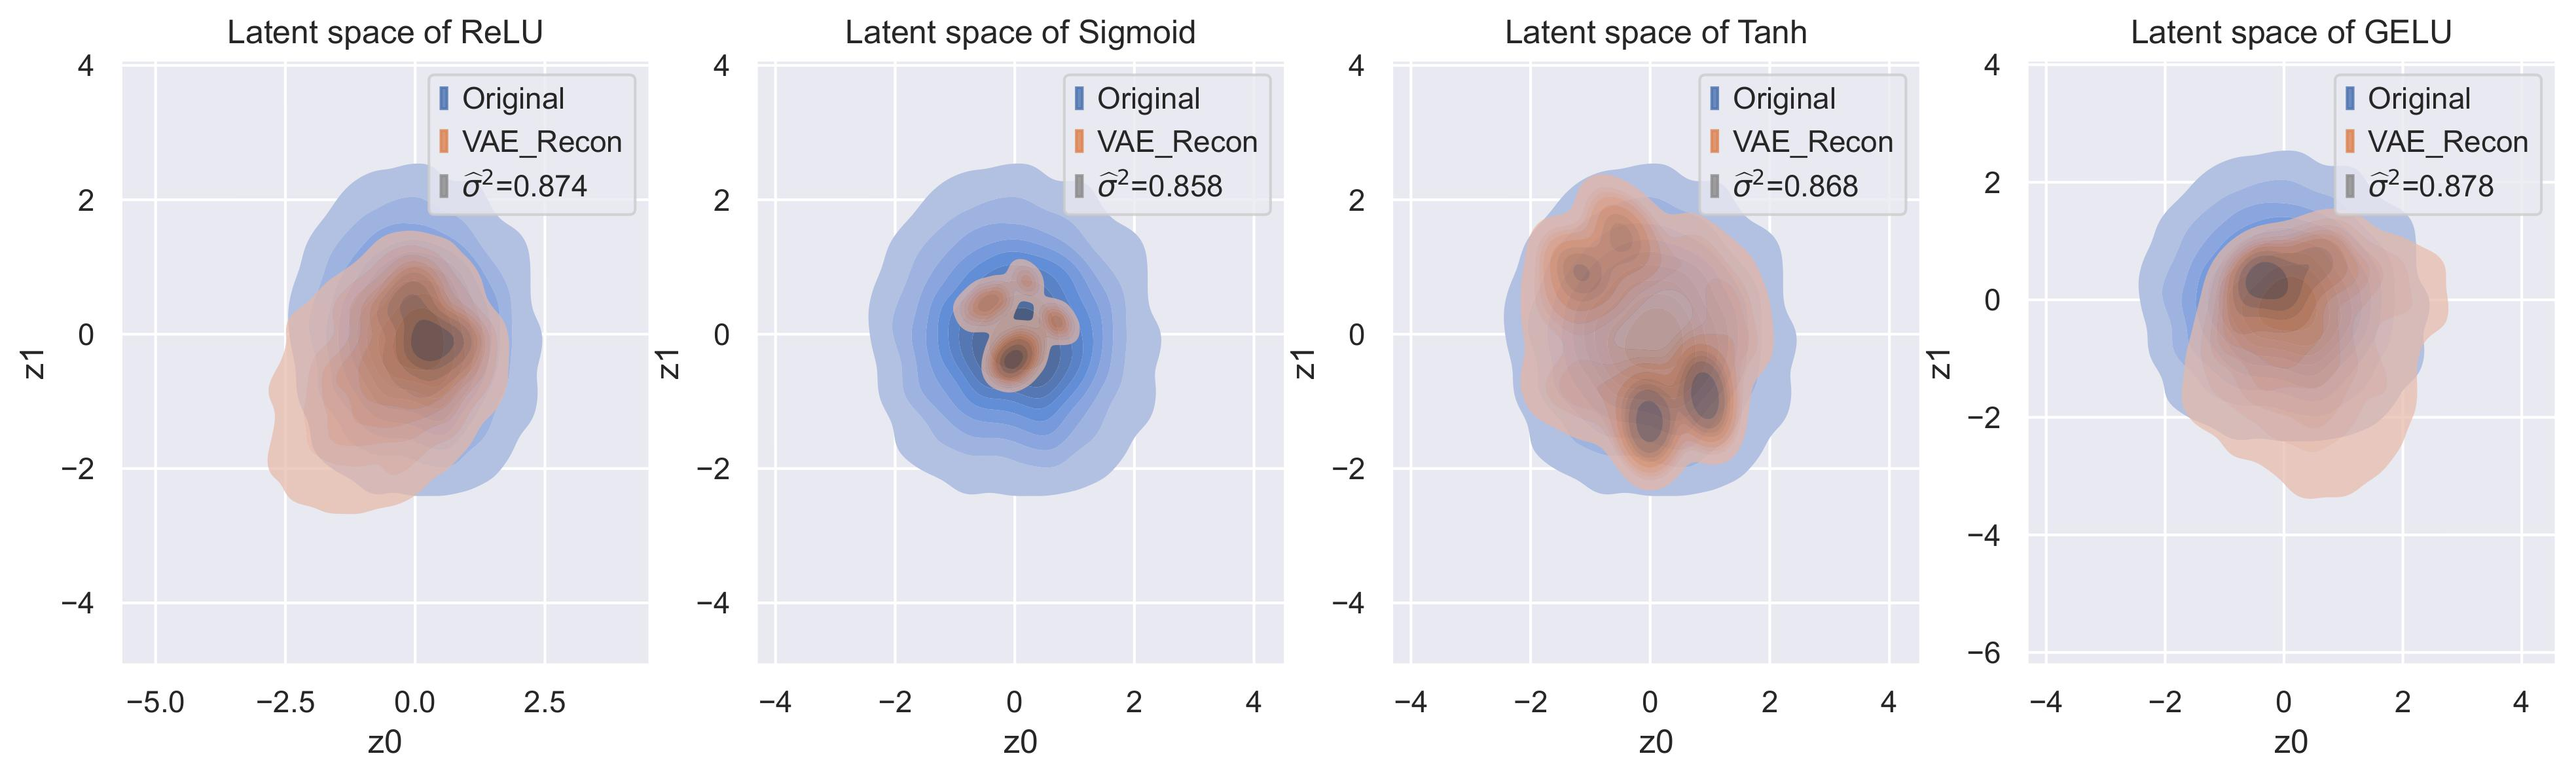
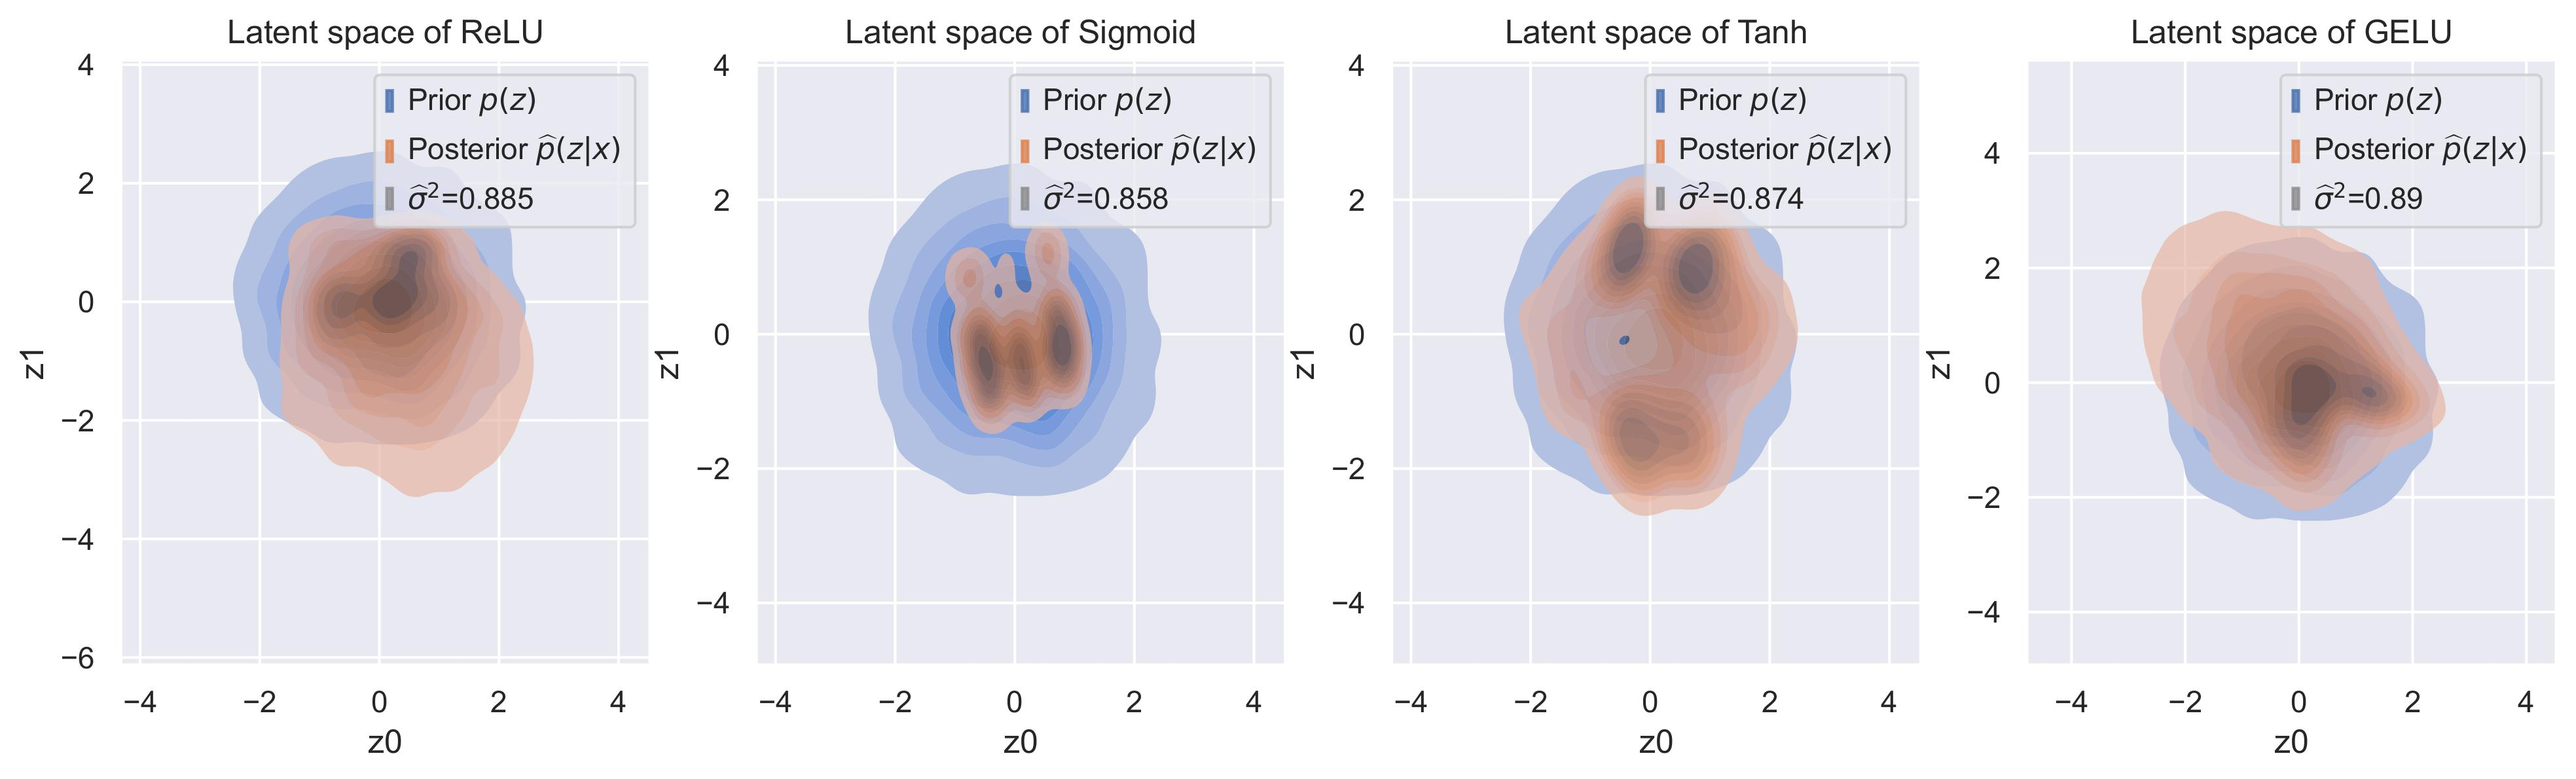
update

diff --git a/README.md b/README.md
@@ -49,15 +49,21 @@ valid_loss = valid_vae(valid_loader, model, eval_mode=True)
 recon_df = simu_vae(m, n, model, simu_loader)
 ```
 
-#### Setting with `m=2, n=2`
-Distribution of the original and reconstructed latent variables `z` with `m=2, n=2, sigma^2=1` for different types of activation functions `ReLU`, `Sigmoid`, `Tanh` and `GELU`.
+### Setting with `m=2, n=2`
+Setting with `m=2, n=2, sigma^2=1` for different types of activation functions `ReLU`, `Sigmoid`, `Tanh` and `GELU`.
 
+#### Observation and Reconstruction
+
+#### Prior and Posterior
 ![alt text](./__resources__/latent_m2_n2.jpg?raw=true "Title")
 
 
 #### Setting with `m=2, n=20`
 Distribution of the original and reconstructed latent variables `z` with `m=2, n=20, sigma^2=1` for different types of activation functions `ReLU`, `Sigmoid`, `Tanh` and `GELU`.
 
+#### Observation and Reconstruction
+
+#### Prior and Posterior
 ![alt text](./__resources__/latent_m2_n20.jpg?raw=true "Title")
 
 ## MLE with Gradient Descent
